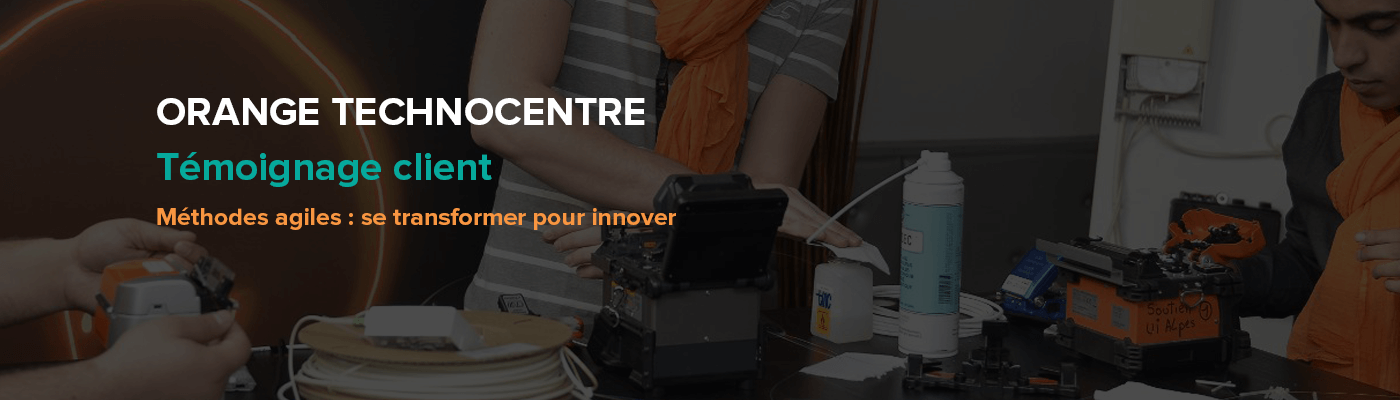
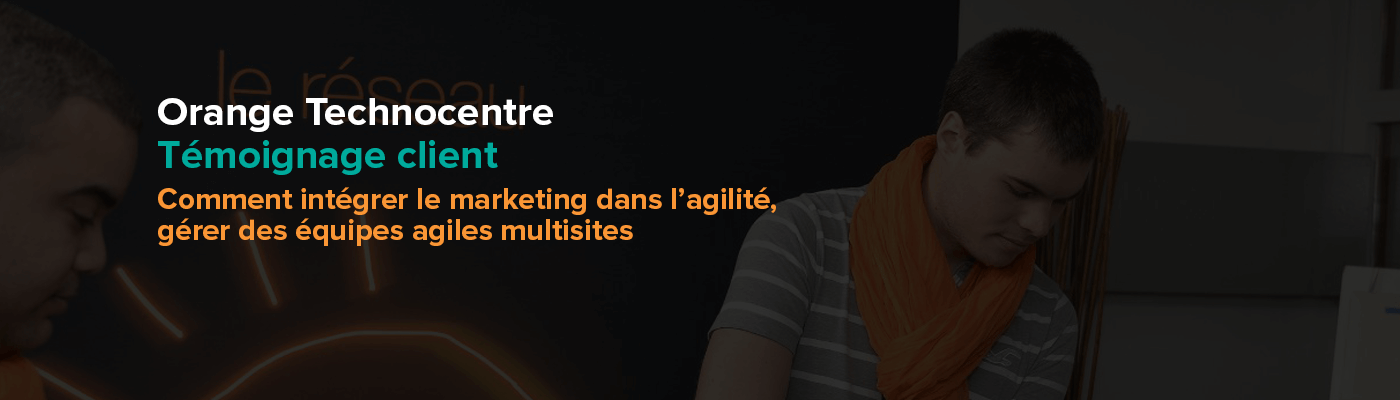
change name orange

diff --git a/programme.html b/programme.html
@@ -240,7 +240,7 @@
                             <img src="images/conferences.png" width="20px" alt="icon_conferences" title="conference"/>Apache Mesos, ou comment exploiter les ressources de votre datacenter ? <br/>(J.P. Thiery & J. Doucet)<br/><span class="hashtag">#DevOps #Backend</span>
                         </td>
                         <td colspan="1" class="last-cell popupable first-room" data-toggle="modal" data-target="#orange">
-                            <img src="images/temoignages_clients.png" width="20px" alt="icon_temoignages" title="temoignage"/>Orange Technocentre - Comment intégrer le marketing dans l’agilité ; gérer des équipes agiles multisites <br/>(F. Derville, B. Rojat & B. Moitié)<br/><span class="hashtag">#Agile</span>
+                            <img src="images/temoignages_clients.png" width="20px" alt="icon_temoignages" title="temoignage"/>Orange Technocentre - Comment intégrer le marketing dans l’agilité, gérer des équipes agiles multisites <br/>(F. Derville, B. Rojat & B. Moitié)<br/><span class="hashtag">#Agile</span>
                         </td>
                         <td colspan="1" class="last-cell popupable second-room" data-toggle="modal" data-target="#javascript-metal">
                             <img src="images/conferences.png" width="20px" alt="icon_conferences" title="conference"/>Du Javascript au metal, le web "natif" <br/>(P. Tandia)  <br/><span class="hashtag">#Frontend</span>
@@ -517,7 +517,7 @@
         <div class="modal-content">
             <div class="modal-header">
                 <button type="button" class="close" data-dismiss="modal">&times;</button>
-                <h4 class="modal-title">Témoignage Orange Technocentre : Méthodes agiles, se transformer pour innover</h4>
+                <h4 class="modal-title">Orange Technocentre - Comment intégrer le marketing dans l’agilité, gérer des équipes agiles multisites</h4>
             </div>
             <div class="modal-body">
                 <p class="slot"><strong>
@@ -793,7 +793,7 @@ Il faudra toutefois vous munir d'un ordinateur sur lequel vous aurez préalablem
         <div class="modal-content">
             <div class="modal-header">
                 <button type="button" class="close" data-dismiss="modal">&times;</button>
-                <h4 class="modal-title">Scaling Culture</h4>
+                <h4 class="modal-title">Scaling Culture : Agilité à l'échelle et Entreprise Libérée </h4>
             </div>
             <div class="modal-body">
                 <p class="slot"><strong>Face aux problèmes posés par l’agilité à grande échelle, on pense immédiatement méthodes et process, SAFE et Feature Teams en tête de pont. Et si, il existait un autre chemin ?
